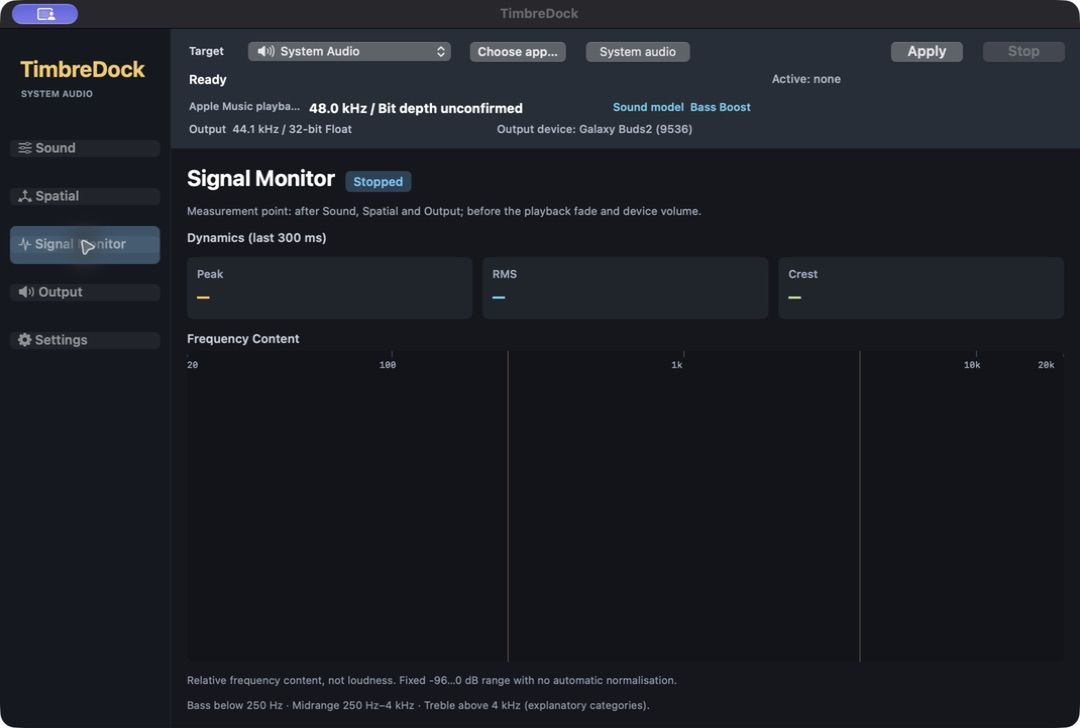
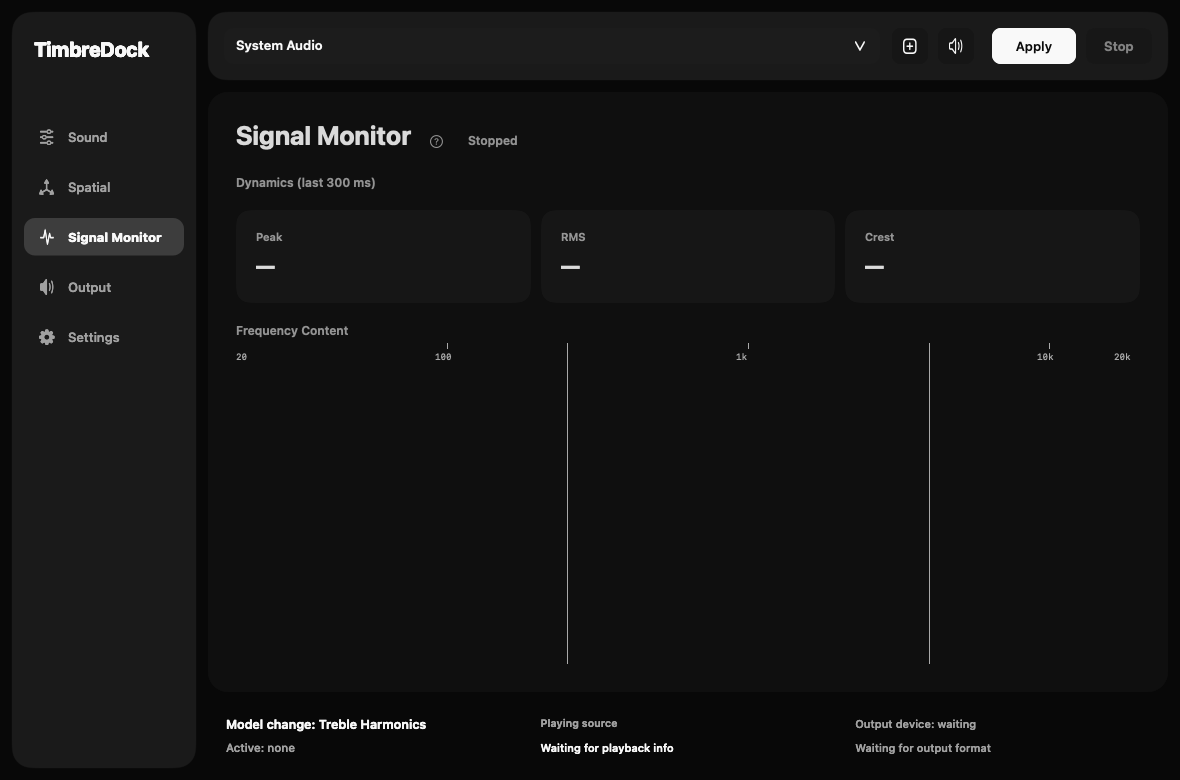
Record release candidate acceptance and synchronize final documentation assets

diff --git a/docs/release-candidate-v0.4.0.md b/docs/release-candidate-v0.4.0.md
@@ -1,0 +1,87 @@
+# TimbreDock v0.4.0 릴리스 후보 검증
+
+2026-09-23. 최종 후보 앱·문서·ZIP과 원격 저장소 정리를 완료했다. 아래에 명시한 인수 검증 한계가 남아 있어 전체 지원 환경의 검증 완료를 뜻하지 않는다. 사용자의 요청에 따라 정식 태그·릴리스 게시와 PR 병합은 수행하지 않았다.
+
+## 후보와 산출물
+
+| 항목 | 값 |
+|---|---|
+| 앱 소스 커밋 | `1bf8fed68383a0869cc78c758f50eca975ddc1c4` |
+| 앱 빌드 ID | `1bf8fed · 2026-09-22T18:40:37Z` (2026-09-23 03:40:37 KST) |
+| 버전 / 플랫폼 | 0.4.0 / macOS arm64, 최소 실행 버전 14.4 |
+| 빌드·로컬 검사 환경 | macOS 27 / Apple Silicon / SDK 27 |
+| 서명 | ad-hoc 서명 검증 완료. Developer ID 서명·공증은 수행하지 않음 |
+| 저장소 / PR | [Gomtanga/timbredock](https://github.com/Gomtanga/timbredock), [초안 PR #26](https://github.com/Gomtanga/timbredock/pull/26) |
+| 로컬 후보 | `build/release-candidate/TimbreDock.app` |
+| 로컬 ZIP | `build/release-candidate/TimbreDock-v0.4.0-rc1-macOS-arm64.zip` |
[1 lines of base64/hex data omitted]
+
+ZIP을 압축 해제하여 서명을 다시 검증하고 원본 앱과 모든 파일이 동일함을 확인했다. `manifest.json`, `SHA256SUMS.txt`, 소스 파일별 `source-sha256.json`을 같은 로컬 디렉터리에 보관한다. 일반 빌드 출력 경로의 앱도 이 후보와 동기화했고 이전 앱은 별도 보존했다. 이후 문서·이미지 기록 커밋은 이 앱 소스 식별자와 구분한다.
+
+영어·한국어 사용 안내의 Sound/Monitor 이미지 4장을 이 후보에서 다시 생성했다. 총 56개 렌더링은 두 언어, 밝은/어두운 모드, 기본/최소 창과 각 화면을 포함한다. 이는 격리된 설정의 오프라인 UI 렌더링이며 실제 음악 측정 이미지가 아니다. 실제 Liquid Glass/SceneKit 합성은 실행 앱 관찰로 별도 확인했다.
+
+## 자동 검증
+
+| 검사 | 결과와 범위 |
+|---|---|
+| 최종 Release 빌드 | 서명된 실제 실행 파일의 오프라인 DSP·분석·장치 전환·수명·CLI 검사 통과 |
+| Core Debug / Release | 각각 CTest 9/9 통과 |
+| 번역·패키징 | en/ko 463개 키와 형식 일치, 번들 자원·실패 시 기존 앱 보존 검사 통과 |
+| 최종 로컬 UI, 영어·한국어 각각 | 창·레이아웃 233, Output 표시 99, 라이브 편집 69, GUI 수명 13개 사례/111개 검증 통과 |
+| Treble 전달 경로 | UI → manager → 등록 IOProc → DSP → 출력 링 34,903개 검증. 모의 하드웨어 |
+| macOS 15 원격 UI | 창 210, Output 99, GUI 수명 111 등 통과. 실제 사용자 조작 검사를 대신하지 않음 |
+
+원격 CI에서 기본 Xcode 16.4 / SDK 15.5로 Liquid Glass API를 찾지 못하는 컴파일 실패를 발견했다. 설치된 Xcode 26.3 / macOS 26.2 SDK를 명시하고, macOS 15에서 Release UI 대체 경로를 실행하는 단계를 추가했다.
+
+- 최종 앱 소스 [macOS Native and Core CI](https://github.com/Gomtanga/timbredock/actions/runs/35768746802): 통과.
+- 최종 앱 소스 [Core CI](https://github.com/Gomtanga/timbredock/actions/runs/35768746809): 통과.
+- 앞선 SDK 수정 확인 실행: [35768233298](https://github.com/Gomtanga/timbredock/actions/runs/35768233298), 통과.
+
+## 실제 Fosi Audio ZH3 검사
+
+음악은 사용자가 재생했다. 합성 테스트음을 출력하지 않았다. 초기 후보 `8ab3a2d`와 표시 수정 후 최종 `1bf8fed`를 구분한다. 두 후보 사이의 앱 변경은 중지 상태 진단 표시 갱신과 그 회귀 검사이며 DSP 변경은 없다.
+
+| 실제 검사 | 관찰 결과 |
+|---|---|
+| 초기 96 kHz 입력에서 2× 요청 | 지원 범위를 벗어난 상태를 표시하고 Standard PCM 유지 |
+| 초기 후보, 48 kHz 기준에서 2× 적용 | Tap 48 / Engine 96 / DAC 96 kHz, 실제 입력·출력 데이터 확인 |
+| 초기 후보 Gain 0 → −6 → −12 → 0 dB | 사용자 확인: 음량이 줄고 복원됐으며 지속적인 무음·끊김·심한 왜곡 없음 |
+| 초기 후보 안정 재생 | 시작 이후 underrun 15,360이 후속 관찰까지 증가하지 않음. output drop / analysis drop 0, restart 1 |
+| 초기 후보 모델 편집 | Treble Drive 50 / Added 15.79의 실제 콜백 수신 확인. 원래 Treble 값 복원, Off/Bass 전환 확인 |
+| 초기 후보 Spatial | 35% ON, Planar/3D, 청취자 키보드 X 0.01 이동 후 0.00 복원, OFF/3D/All 복원 |
+| 초기 후보 Stop | DAC가 검사 기준 48 kHz로 복원됨 |
+| 최종 후보 재검사 | 동일 Fosi에서 Tap 48 / Engine 96 / DAC 96 kHz, 실제 입력·출력 확인. Stop 후 48 kHz 복원 |
+| 최종 후보 안정 재생 | 첫 진단 관찰 시 underrun 843,776, 후속 관찰에서 동일. output drop / analysis drop 0, restart 1 |
+| 검사 종료 | DAC를 작업 시작 당시 96 kHz / 24-bit 설정으로 수동 복원. Output Standard / Gain 0 / Spatial OFF 유지 |
+
+XRuns 0 또는 무음 전환이 없었다고 주장하지 않는다. 두 실행의 초기 underrun 수치가 달랐으며, 후속 관찰에서 누적 증가하지 않았다는 범위의 결과다. 장시간 재생과 시작 전환 지연 분포는 추가 측정 대상이다. Gain 청취 확인은 초기 후보에서 받았고, 최종 후보에서는 장치 활성·데이터 흐름·중지·표시 복원을 재검증했다.
+
+## 수동 UI와 수정 사항
+
+- 실제 다섯 페이지, Spatial 2D/3D 색상 및 선택, 모델·슬라이더 변경, 도움말 팝오버와 Escape 닫기, Tab/Space 탐색과 Spatial 화살표 이동을 확인했다.
+- 초기 및 최종 후보에서 영어 → 한국어 재실행을 확인했다. 마지막에 영어로 복원했다.
+- 사이드바의 `SYSTEM AUDIO` 보조 문구가 제거된 최신 앱을 확인했다.
+- 발견한 결함: Stop 후 2× → Standard로 바꾸면 Settings 진단에 이전 `PCM 2x pending`이 남았다. `outputRateModeChanged()`에서 공통 진단 갱신을 호출하도록 수정하고 8개 회귀 검증을 추가했다. 최종 앱의 동일 순서를 직접 재현해 진단 `Off`를 확인했다.
+- VoiceOver 스위치를 실제로 켜서 확인했고, 사용자가 앱 내용이 읽혔다고 최종 확인했다. 기본 앱 판독은 확인됐으며 VoiceOver는 다시 OFF임을 확인했다. 모든 화면과 조작을 VoiceOver만으로 수행한 전체 접근성 검증과는 구분한다.
+- 수동 검사 종료 무렵 선택된 Soft Bass(30 / 8 / −2 dB)는 새 선택으로 보존했다. 검사 전 설정 전체를 덮어쓰지 않았다.
+
+## 저장소와 안정판 보존
+
+저장소를 `Gomtanga/timbredock`으로 변경하고 기존 API 주소의 리다이렉트와 이전 v0.3.0 다운로드 URL의 최종 HTTP 200을 확인했다. v0.3.0 ZIP을 실제로 다시 다운로드하여 공개 체크섬과 비교했다.
+
[1 lines of base64/hex data omitted]
+- 오래된 원격 브랜치 6개는 검증된 전체 이력 Git bundle 보존 후 정확한 SHA 조건과 원자적 push로 정리했다. PR #11/#12는 현재 구현으로 대체되어 닫았다.
+- `main`, Windows 브랜치 2개와 PR #24/#25, 이번 개편 브랜치와 초안 PR #26을 보존했다. [정리 기록](branch-cleanup-v0.4.0.md).
+- README의 공개 다운로드는 v0.3.0을 유지한다. v0.4.0 공개 릴리스·태그·PR 병합은 수행하지 않았다.
+
+## 남은 인수 검증 범위
+
+다음은 현재 완료로 판정할 수 없으며 정식 게시 판단 전에 확인하거나 지원 범위와 수용 여부를 명시해야 한다.
+
+- 모든 화면의 VoiceOver 작업 흐름과 전체 키보드 작업 흐름. 기본 VoiceOver 앱 판독은 사용자 확인을 받았고, 자동화 및 직접 조작은 일부 탐색·조작에 한정된다.
+- 모든 페이지/언어의 실제 1×·2× 디스플레이 이동·배율 조합. 생성된 이미지에는 1×/2× 해상도가 포함되지만 물리 환경 전체 검사를 대신하지 않는다.
+- macOS 14.4 실장치, 기존 설치에서의 TCC 권한 유지. macOS 15 CI의 실행 성공은 이 검증을 대신하지 않는다.
+- Bluetooth 무선 출력 및 장치 분리·재연결·경로 전환의 실장치 행렬. 이번 명시적 청취 검사는 Fosi USB 출력이다.
+- 44.1→88.2 kHz 실장치 전환, Match Source의 실제 샘플레이트 변경, 장시간 연속 재생 및 전환 실패·복구의 반복 측정. 모의 장치 회귀 검사는 통과했다.
+
+Treble 처리 대역·강도 곡선 개선은 0.4.1의 별도 범위다. 위 검증 한계와 구분한다. 이 문서는 정식 릴리스 게시 승인을 의미하지 않는다.

diff --git a/docs/branch-cleanup-v0.4.0.md b/docs/branch-cleanup-v0.4.0.md
@@ -1,8 +1,10 @@
 # Branch cleanup for v0.4.0
 
-Status: prepared; no remote branches deleted. Snapshot date: 2026-09-21.
+Status: completed 2026-09-23. Historical snapshot date: 2026-09-21. Repository renamed to `Gomtanga/timbredock` (old `Gomtanga/lowend-circuit` API URLs redirect).
 
-A verified private Git bundle contains the nine remote tips below. Original worktrees, Windows local work and stash are outside cleanup scope.
+A verified private Git bundle retains the nine remote tips below, including full ancestry. Original worktrees, Windows local work and stash remain outside cleanup scope.
+
+## Historical snapshot (2026-09-21)
 
 | Branch | Snapshot SHA | Disposition |
 |---|---|---|
@@ -16,18 +18,33 @@ A verified private Git bundle contains the nine remote tips below. Original work
 | `main` | `52f745421cf17e5f070c690263ec8d79f51ff3ae` | Keep |
 | `spike/cross-platform-core` | `589a576507c19738a647d9979f2caa27f5d03c2b` | First three commits patch-equivalent; preserve unique historical planning commit |
 
-## Superseded work
-
-PR #11 separates sample-rate listener work and adds a rate bench. Current HardwareSampleRateTracker already separates listener work and serializes confirmation; its stale/race protections are newer. Current RateMatchBench defaults to dry-run, requires explicit device/execute for changes, and restores the original rate. Do not merge the old branch wholesale.
-
-PR #12 couples automatic rate matching to an expert-mode checkbox. The redesigned UI exposes a mutually exclusive output-rate mode and keeps Advanced disclosure independent of behavior. Preserve automatic matching itself, not the old display/behavior coupling.
-
 The unique spike planning commit is `589a576507c19738a647d9979f2caa27f5d03c2b`. Its historical roadmap is archived with its full ancestry; it does not define current product support.
 
-## Execution gates
+## Completion record (2026-09-23)
 
-1. Re-read each remote tip and abort its deletion if it changed from the snapshot.
-2. Keep both Windows branches and their pull requests open.
-3. Record validation and supersession links before closing obsolete pull requests.
-4. Delete only the six named cleanup candidates; keep main and active redesign work.
-5. Verify remaining remote refs and accessible v0.3.0 release assets.
+Six snapshot candidates were deleted from the remote atomically with an exact-SHA `--force-with-lease` per ref. Every live tip matched its snapshot SHA before deletion, so no divergent work was discarded:
+
+- `codex/readme-redesign` — `959d6b2de494943fe586207d22b06b91f3c1a5ef`
+- `codex/release-v0.3.0` — `1da18de06633b23aeffec6fe26caa69946ac1556`
+- `docs/bilingual-readme-refresh` — `16782429b06fc8c626be386a51c5b150b6417c6e`
+- `feature/rate-match-as-expert-option` — `faa25988797cfdf22d8d228a493e1b4510e457d4`
+- `fix/rate-match-polling-and-deadlock` — `3c83129b5949e2844e0f1d8af4b50ce8bd141400`
+- `spike/cross-platform-core` — `589a576507c19738a647d9979f2caa27f5d03c2b`
+
+Obsolete pull requests were closed as superseded: PR #11 and PR #12. Windows PR #24 and PR #25 were preserved unchanged and are still open with their branches intact.
+
+Remaining remote refs after cleanup:
+
+| Ref | State |
+|---|---|
+| `main` | `52f745421cf17e5f070c690263ec8d79f51ff3ae` |
+| `feature/windows-port` | original SHA `400fa2574472907294b834a97a0985e6cb0f5568`; PR #24 open |
+| `feature/windows-virtual-routing` | original SHA `cacb7b0aa43d073a4641b2e079f5772d29279af5`; PR #25 open |
+| `codex/timbredock-redesign` | active redesign work; draft PR #26 open, unmerged |
+
+## Evidence retained
+
+- `build/redesign-evidence/remote-branches-before.bundle` — Git bundle of all nine pre-cleanup tips (`bundle verify` reports a complete history; SHA-1 object format). Also `remote-branches-before.json` and `bundle-verify.txt`.
+- `build/redesign-evidence/spike-historical-plans/` — archived planning material for the spike commit.
[1 lines of base64/hex data omitted]
+- v0.4.0 candidate draft PR #26 is unmerged; no tag or release was created by cleanup.

diff --git a/README.md b/README.md
@@ -23,7 +23,7 @@
 
 **한국어** · [English](README.en.md)
 
-> **TimbreDock v0.4.0 개발 중** — LowEnd Circuit의 새 이름입니다. 이 브랜치에서 UI·영어/한국어·신호 분석을 개편하고 있습니다. 아래 다운로드와 기존 화면은 안정 버전 v0.3.0을 기준으로 합니다. [개편 내용과 검증 기준](docs/redesign-v0.4.0.md) · [v0.4.0 guide](docs/timbredock-v0.4.0-guide.md) · [새 소스 빌드](docs/development.md)
+> **TimbreDock v0.4.0 릴리스 후보 준비** — LowEnd Circuit의 새 이름입니다. UI·영어/한국어·신호 분석 개편을 구현하고 후보 빌드와 CI를 검증했습니다. 정식 릴리스는 아직 게시하지 않았습니다. 아래 다운로드와 기존 화면은 안정 버전 v0.3.0을 기준으로 합니다. [최종 후보 검증과 남은 범위](docs/release-candidate-v0.4.0.md) · [v0.4.0 guide](docs/timbredock-v0.4.0-guide.md) · [새 소스 빌드](docs/development.md)
 
 ## 내 취향에 맞게, 듣는 공간까지
 

diff --git a/README.en.md b/README.en.md
@@ -23,7 +23,7 @@
 
 [한국어](README.md) · **English**
 
-> **TimbreDock v0.4.0 is in development** — the new name for LowEnd Circuit. This branch updates the UI, English/Korean localization and signal analysis. Downloads and existing screenshots below describe stable v0.3.0. [Redesign and acceptance criteria](docs/redesign-v0.4.0.md) · [v0.4.0 guide](docs/timbredock-v0.4.0-guide.en.md) · [Build the new source](docs/development.en.md)
+> **TimbreDock v0.4.0 release candidate prepared** — the new name for LowEnd Circuit. The UI, English/Korean localization and signal analysis changes are implemented, with candidate-build and CI verification. The formal release is not published. Downloads and existing screenshots below describe stable v0.3.0. [Candidate verification and remaining coverage](docs/release-candidate-v0.4.0.md) · [v0.4.0 guide](docs/timbredock-v0.4.0-guide.en.md) · [Build the new source](docs/development.en.md)
 
 ## Shape your sound and your listening space
 

diff --git a/docs/validation-v0.4.0.md b/docs/validation-v0.4.0.md
@@ -1,6 +1,6 @@
 # TimbreDock v0.4.0 validation record
 
-Local implementation and Release app completed on 2026-09-21. Physical-device/release acceptance is still pending. Baseline `52f745421cf17e5f070c690263ec8d79f51ff3ae`; branch `codex/timbredock-redesign`, separate worktree `/Users/geon-yeong/opencode/timbredock-redesign`. Changes are local and uncommitted.
+Local implementation and Release app completed on 2026-09-21. Physical-device/release acceptance is still pending. Baseline `52f745421cf17e5f070c690263ec8d79f51ff3ae`; branch `codex/timbredock-redesign`, separate worktree `/Users/geon-yeong/opencode/timbredock-redesign`. This paragraph records the original local, uncommitted state on that date. The current committed candidate, hosted CI, device checks and repository cleanup are recorded in [the 2026-09-23 candidate report](release-candidate-v0.4.0.md).
 
 ## Liquid Glass UI follow-up
 

diff --git a/docs/redesign-v0.4.0.md b/docs/redesign-v0.4.0.md
@@ -1,7 +1,7 @@
 # TimbreDock v0.4.0 redesign
 
-Status: local implementation completed; release acceptance pending. Baseline: `52f745421cf17e5f070c690263ec8d79f51ff3ae`.
-This document describes the approved redesign. See [validation record](validation-v0.4.0.md) for completed implementation checks and outstanding device/release acceptance.
+Status: implementation, candidate packaging and repository cleanup completed; remaining acceptance coverage is recorded explicitly before release. Baseline: `52f745421cf17e5f070c690263ec8d79f51ff3ae`.
+This document describes the approved redesign. See [the current candidate report](release-candidate-v0.4.0.md) for device/CI/artifact results and remaining coverage; the [initial validation record](validation-v0.4.0.md) is historical.
 
 ## 2026-09-22 UI scope extension
 

diff --git a/docs/timbredock-v0.4.0-guide.en.md b/docs/timbredock-v0.4.0-guide.en.md
@@ -74,3 +74,5 @@ The bundle identifier and capture-lock path are retained, but this does not guar
 ## Language and harmonics follow-up
 
 Settings distinguishes the current interface language from the saved next-launch language. Fully quit with Command-Q and reopen to apply it. The Sound receipt line reports the model and two control values received by the audio callback; it does not establish audible effect strength. The unchanged Treble Harmonics algorithm can produce very small changes when high-frequency input energy is low. See the [follow-up verification record](validation-v0.4.0-language-treble.md).
+
+[Release-candidate verification and remaining coverage](release-candidate-v0.4.0.md)

diff --git a/docs/ui-design-v0.4.0.md b/docs/ui-design-v0.4.0.md
@@ -1,5 +1,7 @@
 # TimbreDock 0.4.0 UI 재정비
 
+최신 후보와 가이드 이미지, 실장치·CI 검증은 [2026-09-23 후보 기록](release-candidate-v0.4.0.md)을 참고하세요. 아래 빌드·ZIP 경로는 각 변경 당시의 기록입니다.
+
 기준일: 2026-09-22. 기존 0.4.0 기능과 저장 설정을 유지하며 화면 표현과 배치를 재설계한다. Treble의 처리 대역·강도 곡선 변경은 0.4.1 범위로 남긴다.
 
 ## 조사에서 선택한 원칙
